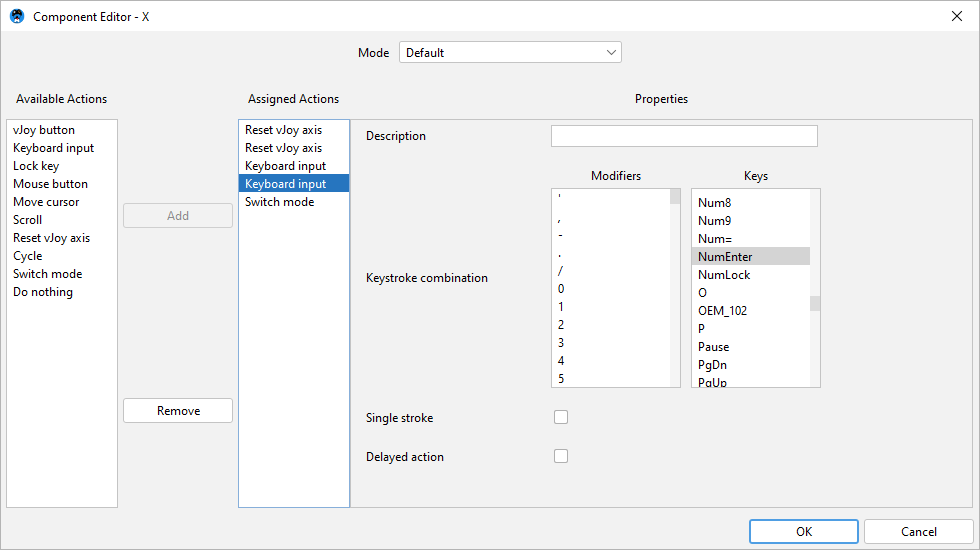
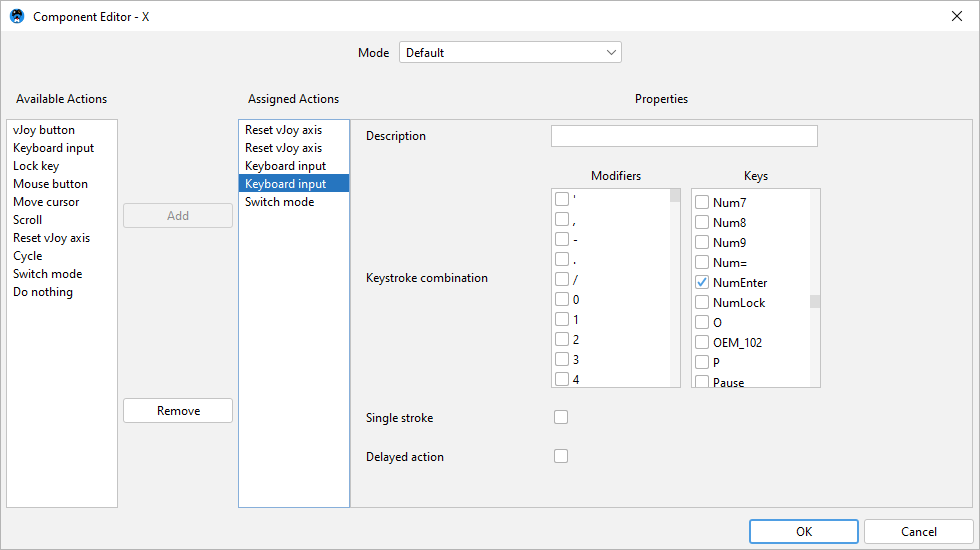
KeystrokeEditorBuilder: use custom JList implementation with Checkboxes

Changed region(s): [[0.7041, 0.34, 0.8265, 0.7109], [0.551, 0.4636, 0.5816, 0.7109], [0.551, 0.4018, 0.5816, 0.4327]]

diff --git a/src/main/java/de/bwravencl/controllerbuddy/input/action/gui/KeystrokeEditorBuilder.java b/src/main/java/de/bwravencl/controllerbuddy/input/action/gui/KeystrokeEditorBuilder.java
@@ -20,6 +20,7 @@ package de.bwravencl.controllerbuddy.input.action.gui;
 import static de.bwravencl.controllerbuddy.gui.Main.strings;
 import static java.util.logging.Level.SEVERE;
 
+import java.awt.Component;
 import java.awt.Dimension;
 import java.lang.reflect.InvocationTargetException;
 import java.lang.reflect.Method;
@@ -31,10 +32,13 @@ import java.util.logging.Logger;
 import javax.swing.Box;
 import javax.swing.BoxLayout;
 import javax.swing.DefaultListModel;
+import javax.swing.DefaultListSelectionModel;
+import javax.swing.JCheckBox;
 import javax.swing.JLabel;
 import javax.swing.JList;
 import javax.swing.JPanel;
 import javax.swing.JScrollPane;
+import javax.swing.ListCellRenderer;
 import javax.swing.ListModel;
 import javax.swing.event.ListSelectionEvent;
 import javax.swing.event.ListSelectionListener;
@@ -45,6 +49,51 @@ import de.bwravencl.controllerbuddy.input.KeyStroke;
 import de.bwravencl.controllerbuddy.input.action.IAction;
 
 public final class KeystrokeEditorBuilder extends EditorBuilder {
+
+	private static final class CheckboxJList<E> extends JList<E> {
+
+		private static final class CheckboxListCellRenderer<E> extends JCheckBox implements ListCellRenderer<E> {
+
+			private static final long serialVersionUID = -7958791166718006570L;
+
+			@Override
+			public Component getListCellRendererComponent(final JList<? extends E> list, final E value, final int index,
+					final boolean isSelected, final boolean cellHasFocus) {
+				setComponentOrientation(list.getComponentOrientation());
+
+				setFont(list.getFont());
+				setText(String.valueOf(value));
+
+				setBackground(list.getBackground());
+				setForeground(list.getForeground());
+
+				setSelected(isSelected);
+				setEnabled(list.isEnabled());
+
+				return this;
+			}
+		}
+
+		private static final long serialVersionUID = 5413881551745215922L;
+
+		private CheckboxJList(final E[] listData) {
+			super(listData);
+
+			setCellRenderer(new CheckboxListCellRenderer<>());
+			setSelectionModel(new DefaultListSelectionModel() {
+
+				private static final long serialVersionUID = 8997996268575032389L;
+
+				@Override
+				public void setSelectionInterval(final int index0, final int index1) {
+					if (super.isSelectedIndex(index0))
+						super.removeSelectionInterval(index0, index1);
+					else
+						super.addSelectionInterval(index0, index1);
+				}
+			});
+		}
+	}
 
 	private final class JListSetPropertyListSelectionListener implements ListSelectionListener {
 
@@ -115,7 +164,7 @@ public final class KeystrokeEditorBuilder extends EditorBuilder {
 		modifiersLabel.setAlignmentX(java.awt.Component.CENTER_ALIGNMENT);
 		modifiersPanel.add(modifiersLabel);
 		modifiersPanel.add(Box.createVerticalStrut(5));
-		final var modifierList = new JList<>(availableScanCodes.toArray(new String[availableScanCodes.size()]));
+		final var modifierList = new CheckboxJList<>(availableScanCodes.toArray(new String[availableScanCodes.size()]));
 		modifierList.addListSelectionListener(new JListSetPropertyListSelectionListener(setterMethod, keyStroke, true));
 
 		final var addedModifiers = new ArrayList<String>();
@@ -138,7 +187,7 @@ public final class KeystrokeEditorBuilder extends EditorBuilder {
 		keysLabel.setAlignmentX(java.awt.Component.CENTER_ALIGNMENT);
 		keysPanel.add(keysLabel);
 		keysPanel.add(Box.createVerticalStrut(5));
-		final var keyList = new JList<>(availableScanCodes.toArray(new String[availableScanCodes.size()]));
+		final var keyList = new CheckboxJList<>(availableScanCodes.toArray(new String[availableScanCodes.size()]));
 		keyList.addListSelectionListener(new JListSetPropertyListSelectionListener(setterMethod, keyStroke, false));
 
 		final var addedKeys = new ArrayList<String>();
